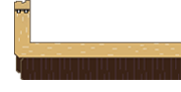
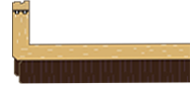
cat-dev branch complete

diff --git a/src/GameState/IngameState.java b/src/GameState/IngameState.java
@@ -153,9 +153,9 @@ public class IngameState extends GameState{
     }
     //mouse motion listener
     public void mouseMoved(MouseEvent e) {
-        int x = e.getX();
-        int y = e.getY();
-        System.out.println("mouse moved " + x + " " + y);
+        // int x = e.getX();
+        // int y = e.getY();
+        // System.out.println("mouse moved " + x + " " + y);
         
     }
     public void mouseDragged(MouseEvent e) {

diff --git a/src/Map/Map.java b/src/Map/Map.java
@@ -74,7 +74,7 @@ public class Map {
         try {
             //System.out.println("load furniture");
             String[] address = {"/Furniture/DrinkBar.png", "/Furniture/Chair.png", "/Furniture/Table.png"};
-            int[] x = {139, 0, 0};
+            int[] x = {130, 0, 0};
             int[] y = {0, 0, 0};
             furnitureList = new ArrayList<Furniture>();
             for (int i = 0; i < address.length; i++) {
